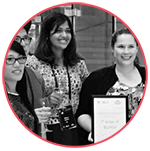
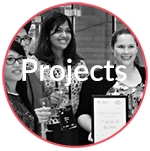
new way to hide/show details

Changed region(s): [[0.1333, 0.3709, 0.8533, 0.5828]]

diff --git a/src/components/TimelineEntry/TimelineEntry.module.scss b/src/components/TimelineEntry/TimelineEntry.module.scss
@@ -17,16 +17,6 @@
   img {
     cursor: pointer;
   }
-
-  .inlineText {
-    cursor: pointer;
-    position: absolute;
-    top: 1.8em;
-    left: 17%;
-    right: 17%;
-    font-size: 1.8em;
-    color: white;
-  }
 }
 
 .selected {
@@ -45,46 +35,22 @@
 .detailText {
   visibility: visible; 
   opacity: 1;
-  max-width: 30%;
+  max-width: 60%;
   margin: 0 auto;
-  position: relative;
- 
-  &:nth-of-type(1) {
-    top: 2em;
-    right: 2em;
-
-    @media(min-width: 50em) {
-      bottom: 3em;
-      left: 13em;
-    }
-  }
-
-  .heading {
-    img {
-      float: left;
-      margin-right: 0.5em;
-    }
-
-    h1 {
-      position: relative;
-      bottom: 2em;
-      left: 2.6em;
-
-      @media(min-width: 50em) {
-        left: 2.2em;
-      }
-    }
-  }
-
-
+  margin-bottom: 2em;
 }
- 
+
+.details {
+  margin-left: 30em;
+  margin-top: -17em;
+}
+
 .subtitle {
-  border-top: 0.03em solid $hot-pink;
-  font-style: italic;
   font-size: 0.8em;
-  color: darkgray;
-  position: relative;
-  bottom: 5em;
-  left: 6em;
+}
+
+.awards {
+  font-size: 0.8em;
+  color: $hot-pink;
+  font-weight: bold;
 }

diff --git a/src/components/TimelineEntry/index.js b/src/components/TimelineEntry/index.js
@@ -24,20 +24,21 @@ class TimelineEntry extends React.Component {
       })}
     >
       <img src={this.props.image} onClick={this.handleClick}/>
-      <span className={styles.inlineText} onClick={this.handleClick}>{this.props.entryText}</span>
-      
+      <div className={bind({ hidden: !this.isSelected(), details: true })}>
         {this.props.details &&
           this.props.details.map((detail, index) => (
             <div key={`${detail.heading}-${index}`}
               className={bind({ hidden: true, detailText: this.isSelected() })}>
               <div className={styles.heading}>
-                <img src={detail.image} />
+                <a href={detail.url} target='_blank'><img src={detail.image} /></a>
                 <h1>{detail.heading}</h1>
               </div>
 
               <div className={styles.subtitle}>{detail.subtitle}</div>
+              <div className={styles.awards}>🏅{detail.awards}</div>
             </div>
           ))}
+        </div>
     </div>
   );
 }

diff --git a/src/pages/index.js b/src/pages/index.js
@@ -5,6 +5,7 @@ import TimelineEntry from '../components/TimelineEntry';
 import projects from './projects.png';
 import talks from './talks.png';
 import metamorph from './metamorph.png';
+import happybutton from './happybutton.png';
 
 const IndexPage = () => (
   <div>
@@ -27,6 +28,15 @@ const projectDetails = [
       'A machine learning smart bridge to help producers find original Australian content to adapt for the screen',
     awards: 'Winner, Arts/Screen Hack 2017',
     image: metamorph,
+    url: 'https://github.com/sreejagpt/artscreenhack',
+  },
+  {
+    heading: 'The Happy Button',
+    subtitle:
+      'An app with a button to view only good news using the ABC News API and sentiment analysis',
+    awards: 'User Favourite, ABS Data Hackathon 2016',
+    image: happybutton,
+    url: 'https://github.com/sreejagpt/ABCGoodNews',
   },
 ];
 

diff --git a/src/layouts/TemplateWrapper.scss b/src/layouts/TemplateWrapper.scss
@@ -33,7 +33,12 @@ h1, h2 {
   padding: 0;
 }
 
+h1 {
+  font-size: 1.2em;
+}
+
 h2 {
+  font-size: 0.8em;
   font-style: italic;
 }
 
